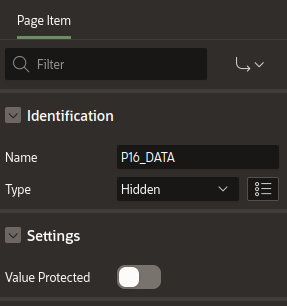
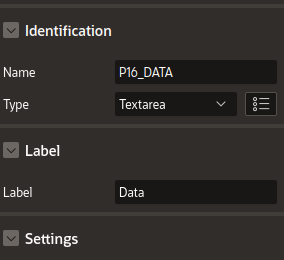
rel-0.5.1

diff --git a/README.md b/README.md
@@ -1,6 +1,6 @@
 # oracle-apex-json-item
 
-An Oracle-APEX-plugin that dynamicaly provides for each property of a JSON-schema an input field to support an easy way to display and edit a JSON item. 
+An Oracle-APEX-plugin that dynamically provides for each property of a JSON-schema an input field to support an easy way to display and edit a JSON item. 
 
 ## Screenshots
 ![demo](docu/demo.gif)
@@ -64,6 +64,9 @@ The supported datatypes for JSON-attributes are
 - integer
 - number (float)
 - boolean
+- null
+
+In addition the keyword **const** for a constant value is accepted.
 
 ### Supported schema
 
@@ -80,7 +83,9 @@ The supported datatypes for JSON-attributes are
     "prop7":  { "type": "string", "format": "date"},
     "prop8":  { "type": "string", "format": "date-time"},
     "prop9":  { "$ref": "#/$defs/id"},
-    "prop10": { "$ref": "#/$defs/address"}
+    "prop10": { "$ref": "#/$defs/address"},
+    "prop11": { "type": "null"},
+    "prop12": { "const": "a constant value"}
     ...
   },
   "$defs}:{
@@ -97,7 +102,6 @@ The supported datatypes for JSON-attributes are
   }
 }
 ```
-The datatypes **object**, **boolean**, **integer**, **number** and **string** are supported.
 
 The attribute **required** contains all required properties (NOT NULL).
 
@@ -113,6 +117,9 @@ Types are
 - **integer** with values like 1, 2, 100, ...
 - **number** with values like 1.5, 100.50, ...
 - **boolean** with values true and false.
+- **null** always a NULL value
+
+The **const** attribute identifies a constant value of types **string**, **number**, **integer**, boolean.
 
 ### Input validation
 
@@ -148,20 +155,14 @@ The plugin provides in the configuration view input for configuring
 
 The **readonly** Attribute is supported for the JSON-item.
 
-In the configuration of the json column the **Type** must be **hidden**, and in **Settings** the **Value Protected** must be **switched off**
-otherwise an error like
-```
-1 error has occurred
-Session state protection violation: This may be caused by manual alteration of protected page item P16_DATA. If you are unsure what caused this error, please contact the application administrator for assistance.
-```
-will occure.
-
+In the configuration of the json column the **Type** must be **text** or **textara**. This item is set to hidden when the plugin is initialized.This is required, because otherwise APEX does not recoginse the data is changed in the region.
+ 
 ### Example config
 The JSON-CLOB is named **P16_DATA**, the schema ist stored in table **object_type** and cann be selected by **object_type_id=:P16_OBJECT_TYPE_ID**
 
 Configuration of the **JSON-data-column**
 
-![region-config-1](docu/region-config-3.png)
+![region-config-3](docu/region-config-3.png)
 
 
 Configuration of the **JSON-region**
